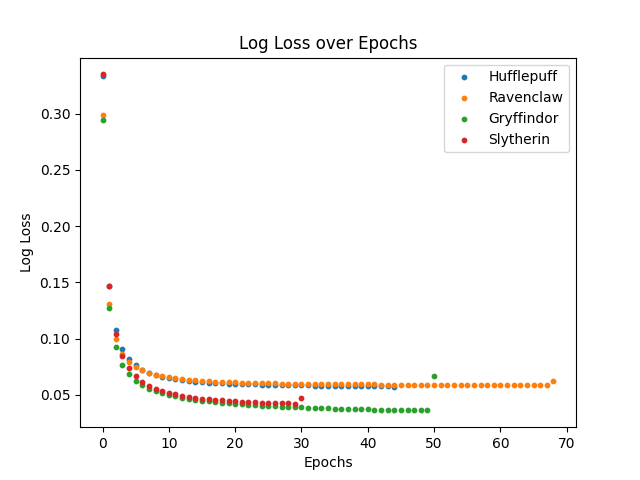
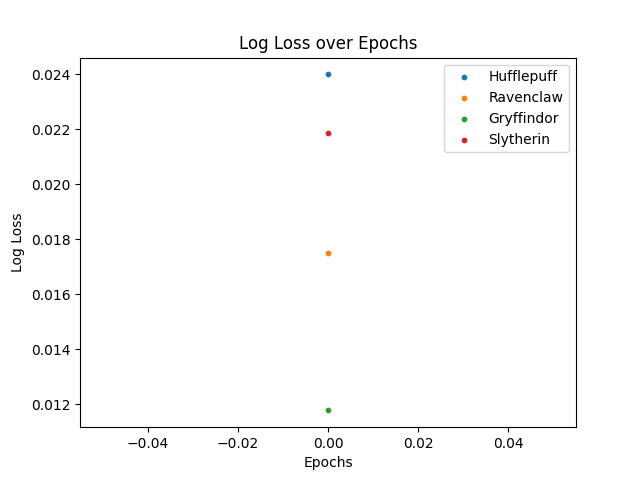
[UPDATE]: Removing unecessary metrics

diff --git a/logreg_train.py b/logreg_train.py
@@ -7,7 +7,7 @@ import json
 
 if __name__  == "__main__":
     df = pd.read_csv("datasets/dataset_train.csv", index_col="Index")
-    df.drop(columns=["Birthday", "Best Hand", "First Name", "Last Name"], inplace=True)
+    df.drop(columns=["Birthday", "Best Hand", "First Name", "Last Name", "Care of Magical Creatures", "Potions", "Arithmancy"], inplace=True)
     y = df["Hogwarts House"]
     df.drop(columns=["Hogwarts House"], inplace=True)
     df.reset_index(drop=True, inplace=True)
@@ -17,7 +17,7 @@ if __name__  == "__main__":
     X_train, X_test, y_train, y_test = test_train_split(df, y)
     scaler = StandardScaler()
     X_train = scaler.fit_transform(X_train)
-    model = MultiLogisticRegression(X_train, y_train, mode="mini-batch")
+    model = MultiLogisticRegression(X_train, y_train, mode="stochastic")
     model.fit()
     model.scatter_log_loss()
     X_test = scaler.transform(X_test)

diff --git a/DSLR/lr_core.py b/DSLR/lr_core.py
@@ -308,6 +308,7 @@ class MultiLogisticRegression:
         X = np.column_stack((X.to_numpy(), np.ones(X.shape[0])))
         probas = [model.predict(X) for model in self.__models.values()]
         probas = np.stack(probas, axis=1)
+        print(probas)
         preds = np.array([])
         for proba in probas:
             preds = np.append(preds, np.argmax(proba))
